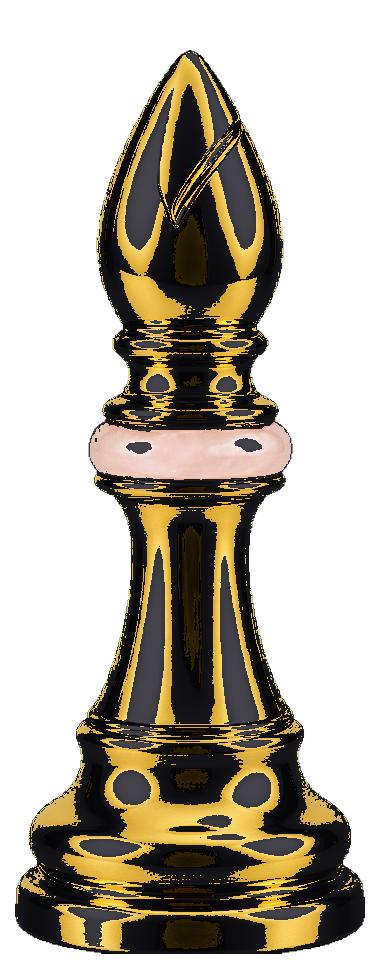
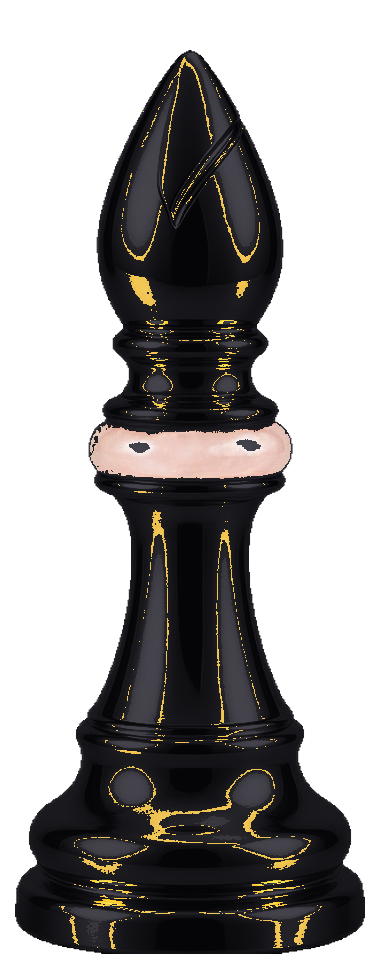
Update chess pieces.

diff --git a/play-rooms.js b/play-rooms.js
@@ -259,8 +259,8 @@ window.bwRateGame=async function(sb, room, me, winnerSide){
     var set=setId||document.body.getAttribute("data-set")||"classic";
     var L=(letter||"P").toUpperCase();
     var s=side==="b"?"b":"w";
-    if(set==="gold") return (s==="w"?"piece-gold-w-":"piece-gold-b-")+L+".png?v=17";
-    if(set==="cobalt") return "piece-"+s+"-"+L+".png?v=17";
+    if(set==="gold") return (s==="w"?"piece-gold-w-":"piece-gold-b-")+L+".png?v=18";
+    if(set==="cobalt") return "piece-"+s+"-"+L+".png?v=18";
     return (s==="w"?"piece-parlor-w-":"piece-parlor-b-")+L+".png?v=6";
   }
   window.bwPieceFile=pieceFile;
